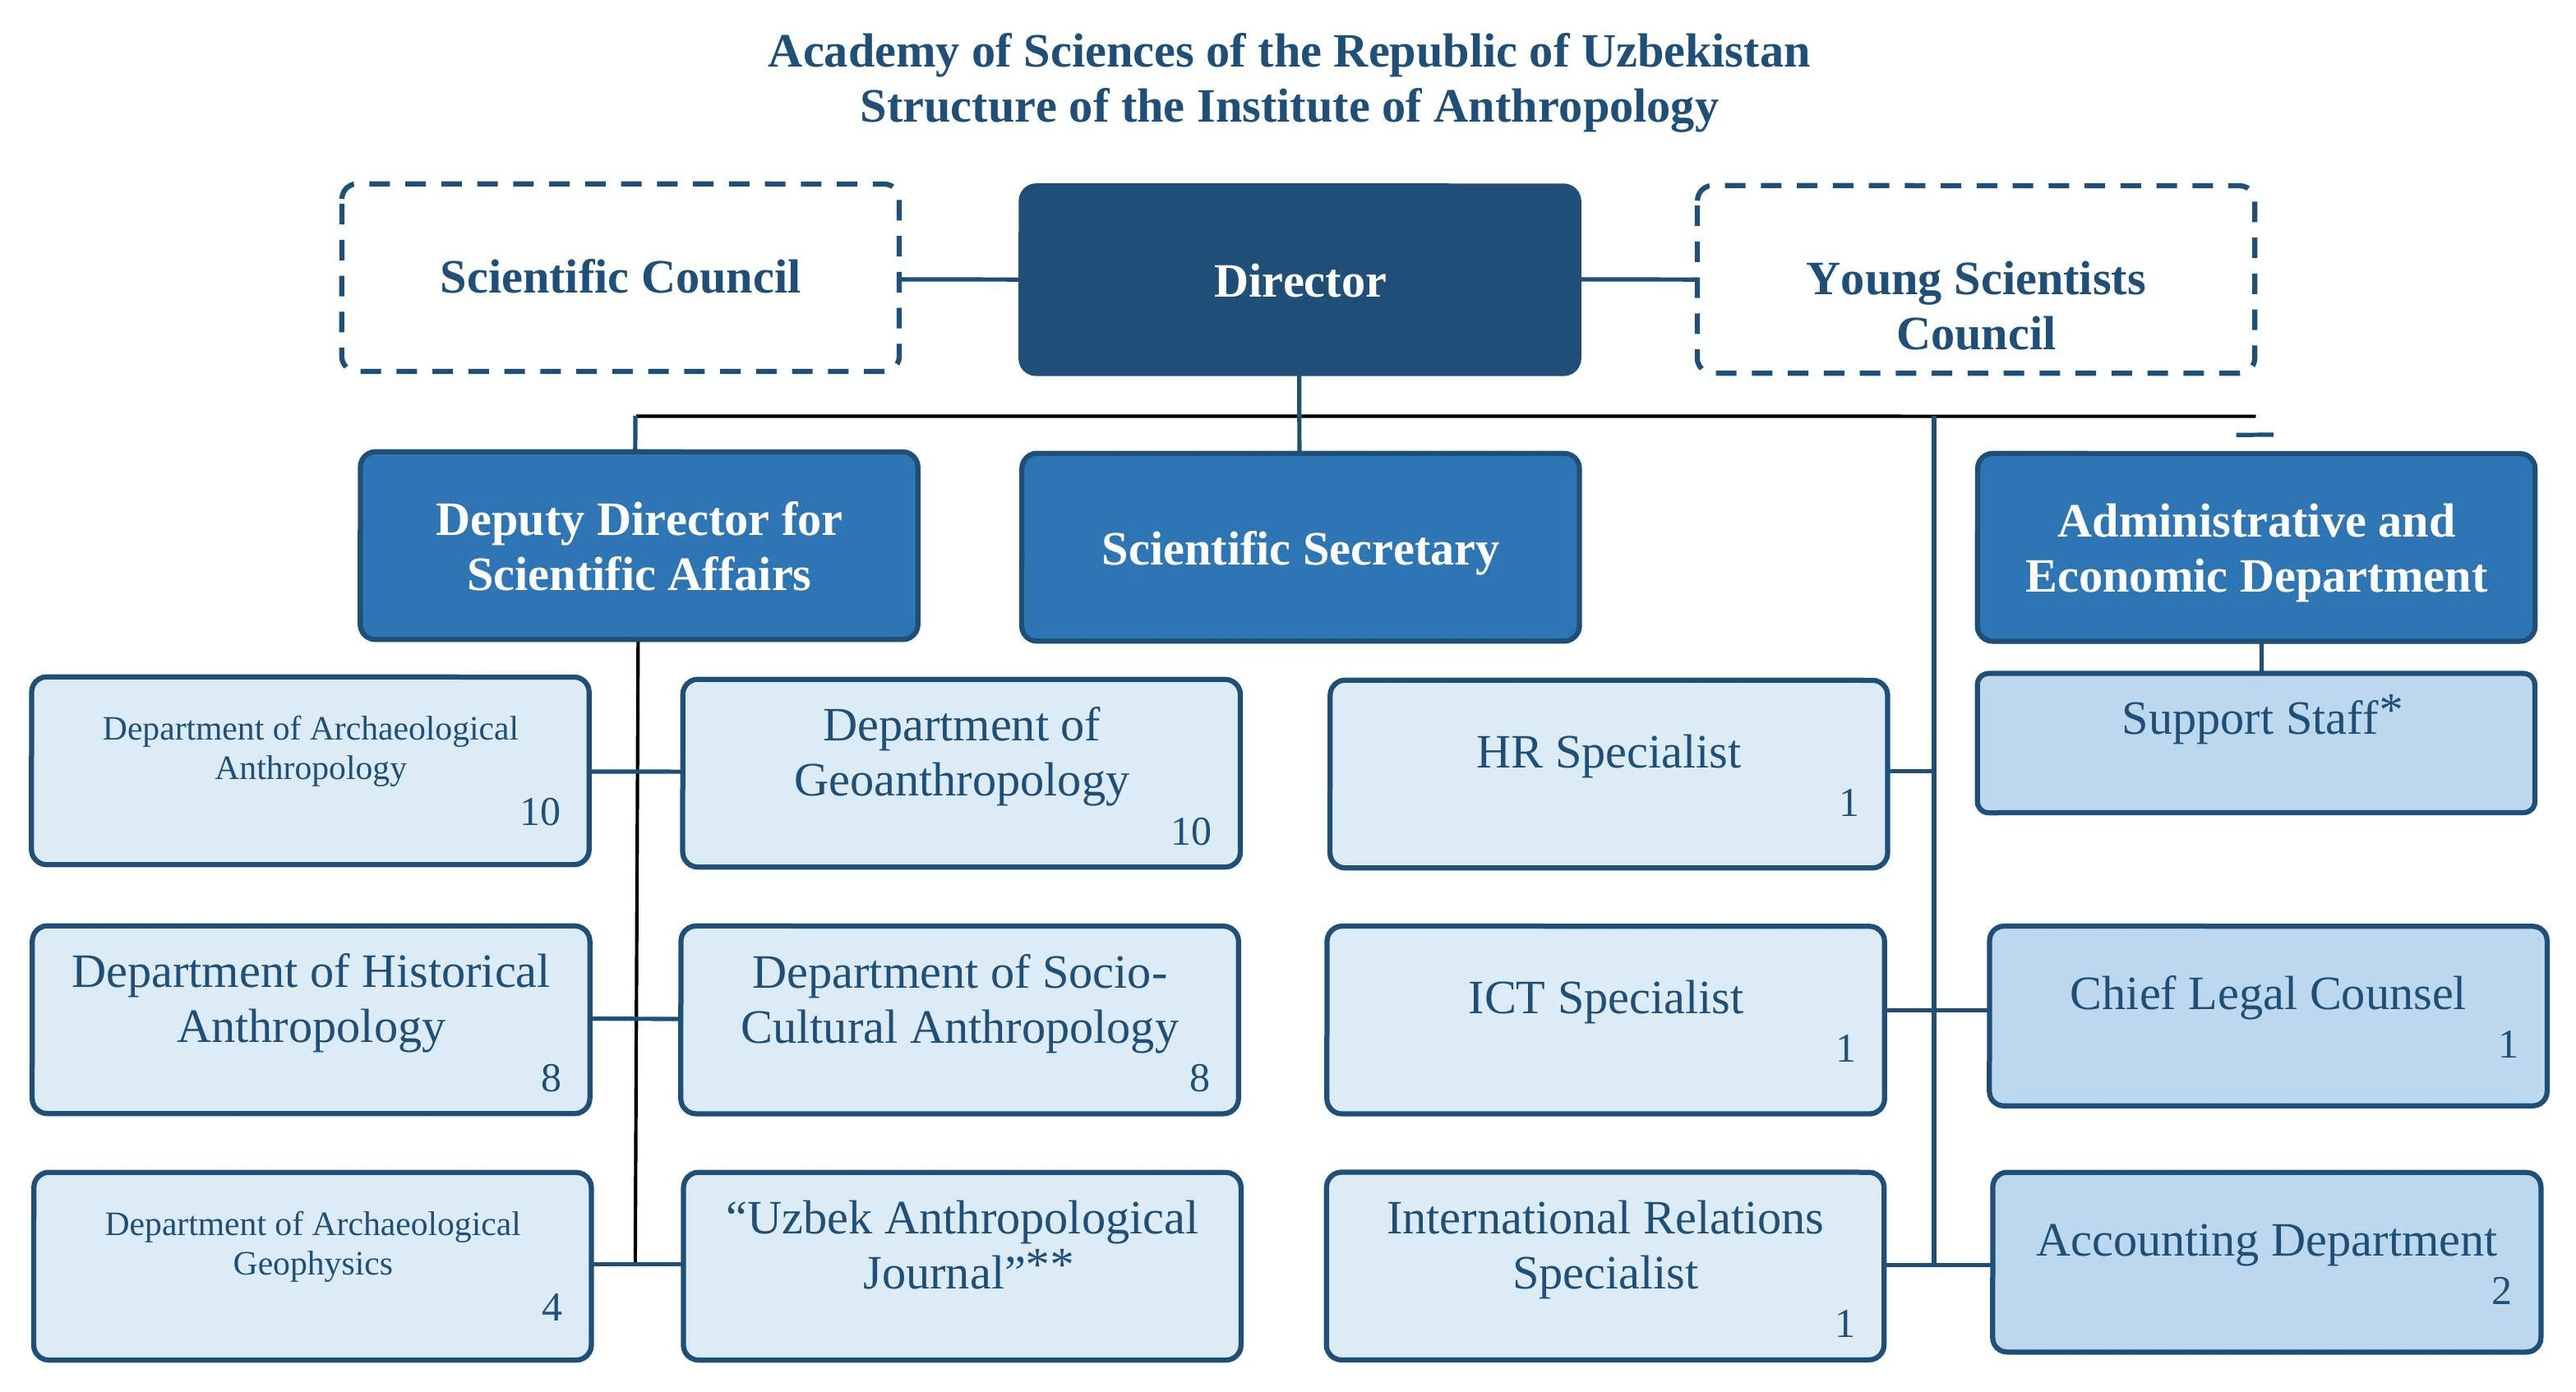
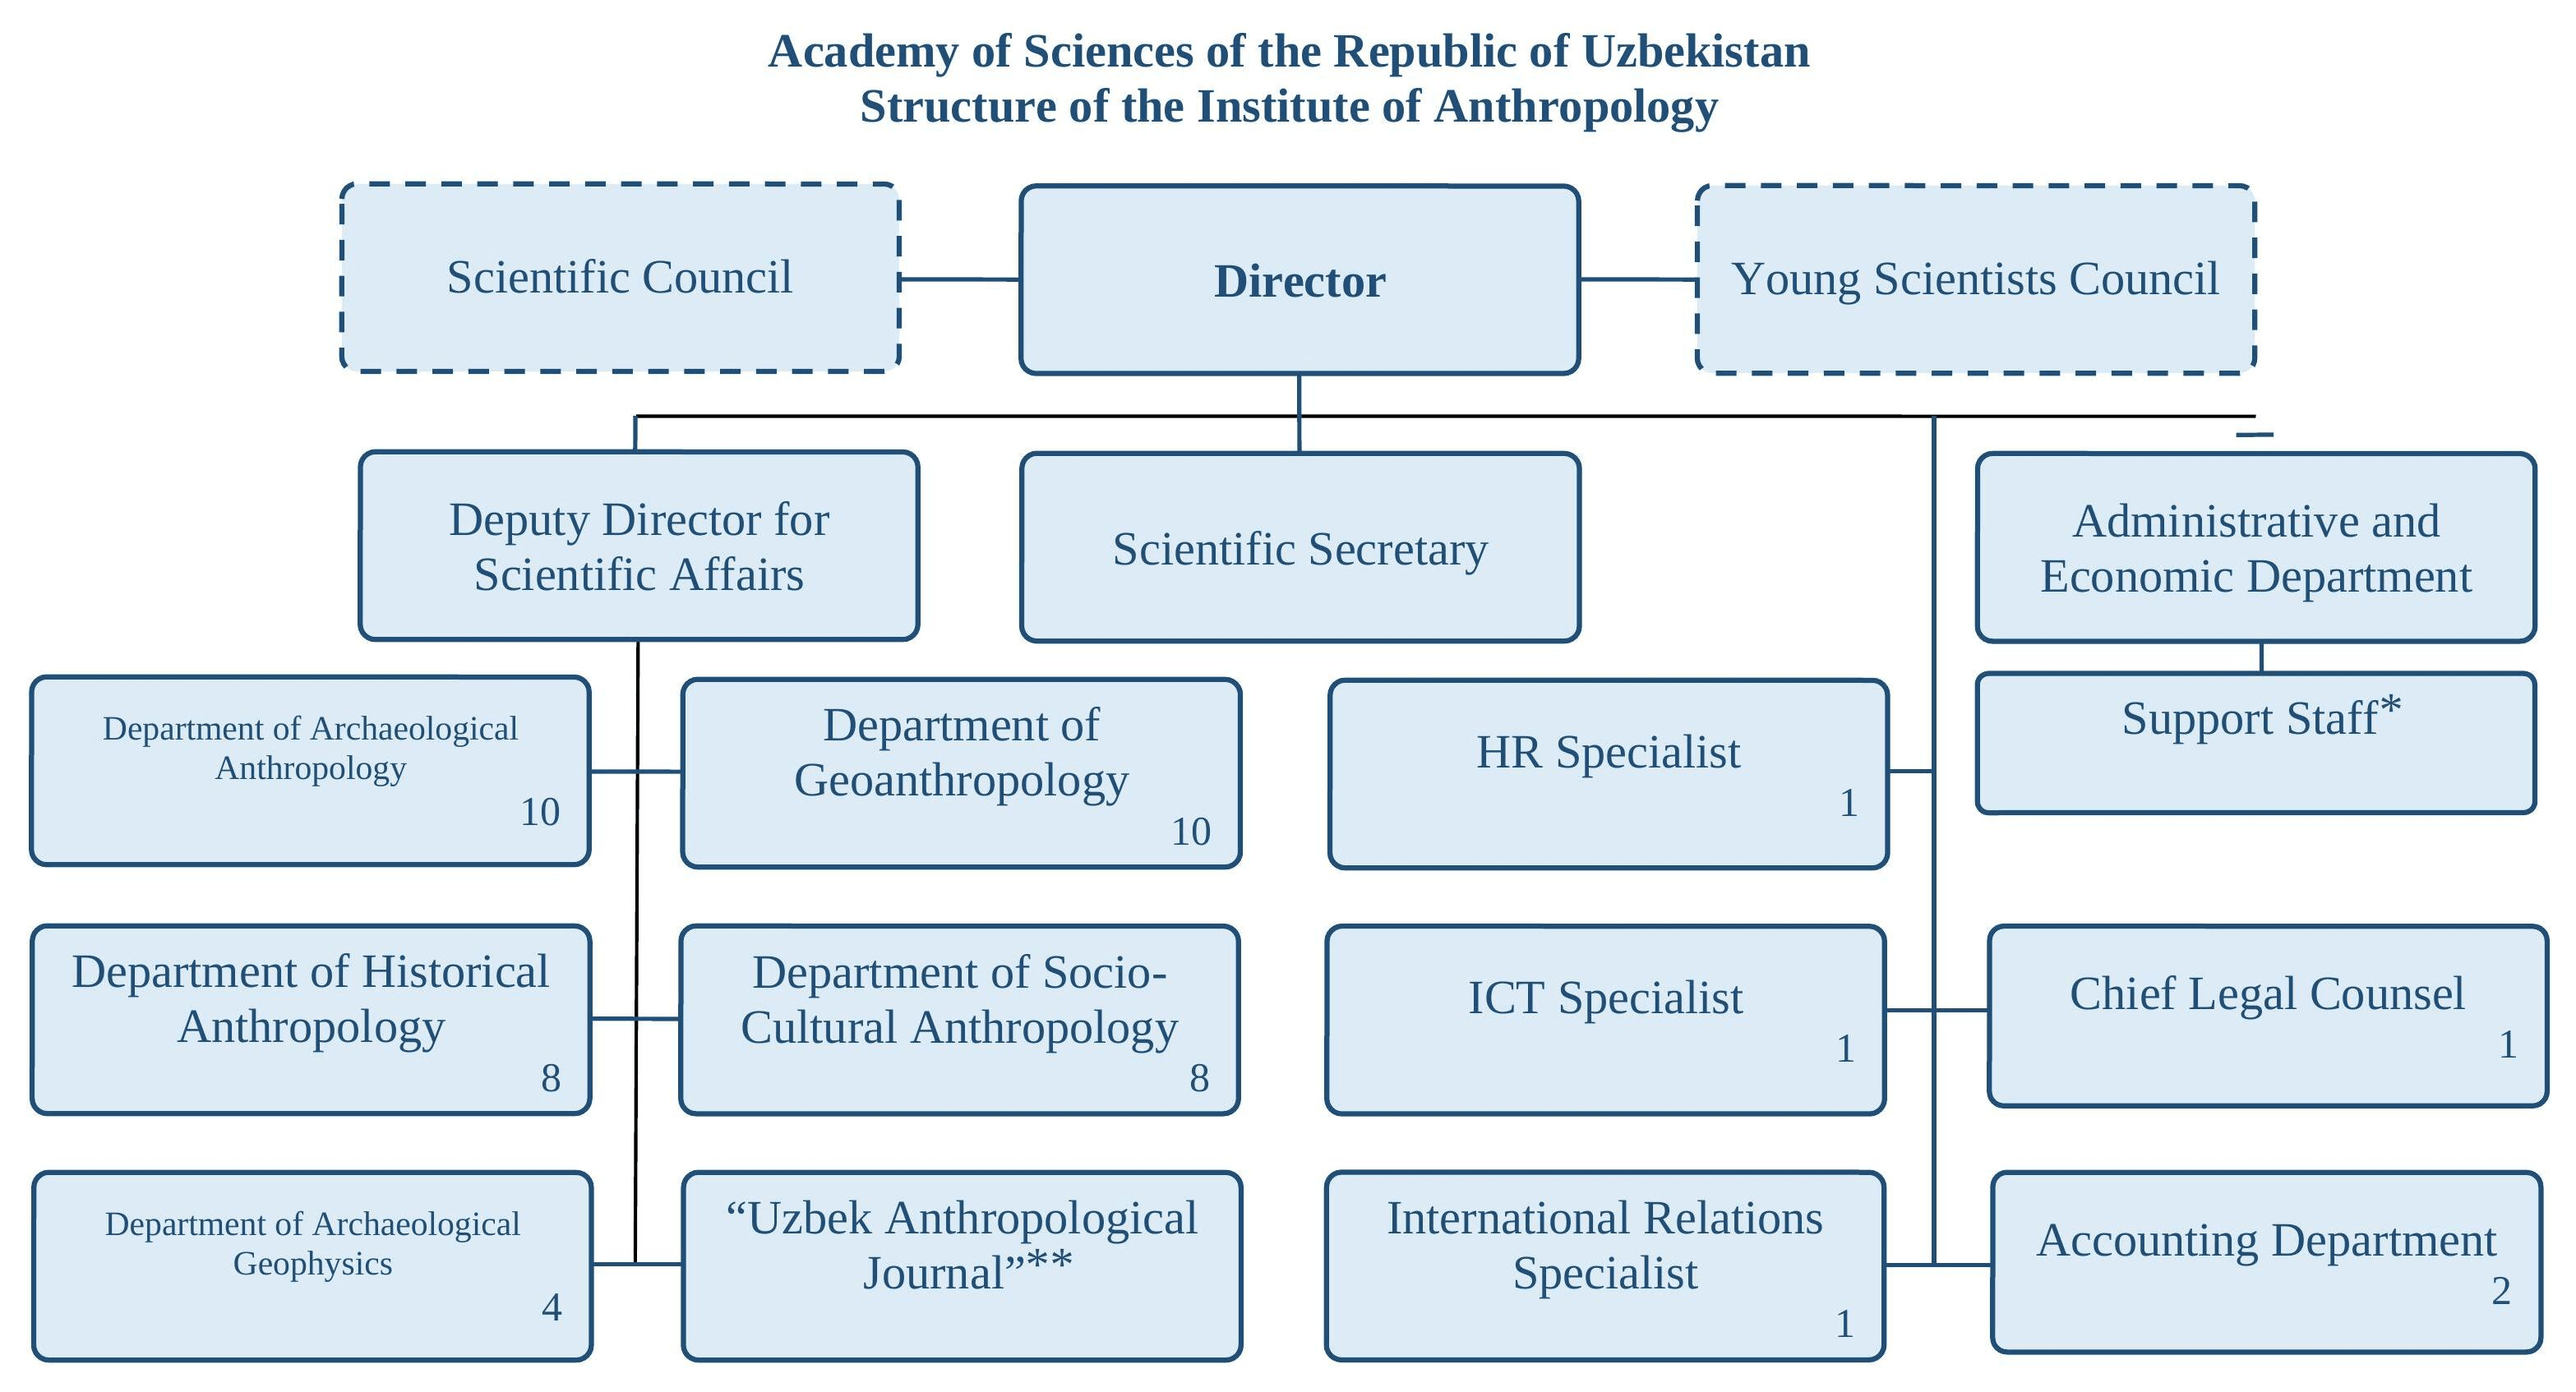
Remove Falsafa bo'limi pilot; real carousel photos; contacts/order fixes
- Falsafa bo'limi (philosophy-department) was a pilot/test department —
  removed from nav, routes, and the unused DepartmentDetailPage import.
  Its 30 staff + department content were also deleted from the backend
  (R2), separately. Generic DepartmentDetailPage/StaffDetailPage system
  stays in place for whichever real department uses it next.
- Bo'limlar: Geoantropologiya bo'limi now listed before Arxeologik
  antropologiya bo'limi (was reversed).
- Homepage carousel: replaced the 3 hotlinked placeholder images with
  real photos (river/canyon, desert, excavation), cropped for a more
  panoramic feel; reordered to desert first.
- Contacts (Bog'lanish): removed the Fax line.
- Structure (Tuzilma): updated org chart images (uz/en) with the newer
  version (includes per-department headcounts).

diff --git a/src/index.js b/src/index.js
@@ -90,7 +90,6 @@ import JournalIssueDetailPage from './pages/HomePages/journalIssueDetailPage/Jou
   import HistoricalAnthropologyDepartmentPage from './pages/HomePages/historicalAnthropologyDepartmentPage/HistoricalAnthropologyDepartmentPage';
   import SocioCulturalAnthropologyDepartmentPage from './pages/HomePages/socioCulturalAnthropologyDepartmentPage/SocioCulturalAnthropologyDepartmentPage';
   import ArchaeologicalGeophysicsDepartmentPage from './pages/HomePages/archaeologicalGeophysicsDepartmentPage/ArchaeologicalGeophysicsDepartmentPage';
-  import DepartmentDetailPage from './pages/HomePages/departmentDetailPage/DepartmentDetailPage';
   import StaffDetailPage from './pages/staffDetailPage/StaffDetailPage';
 
 
@@ -244,16 +243,15 @@ root.render(
 
                 {/* Departments Pages */}
 
-                <Route path='/:lang?/archaeological-anthropology-department' element={<ArchaeologicalAnthropologyDepartmentPage />} />
                 <Route path='/:lang?/geoanthropology-department' element={<GeoanthropologyDepartmentPage />} />
+                <Route path='/:lang?/archaeological-anthropology-department' element={<ArchaeologicalAnthropologyDepartmentPage />} />
                 <Route path='/:lang?/historical-anthropology-department' element={<HistoricalAnthropologyDepartmentPage />} />
                 <Route path='/:lang?/socio-cultural-anthropology-department' element={<SocioCulturalAnthropologyDepartmentPage />} />
                 <Route path='/:lang?/archaeological-geophysics-department' element={<ArchaeologicalGeophysicsDepartmentPage />} />
-                <Route path='/:lang?/philosophy-department' element={<DepartmentDetailPage deptSlug="philosophy-department" />} />
-                {/* Дженерик-маршрут вида /<deptSlug>/staff/<slug> — работает для
-                    любого отдела, использующего DepartmentDetailPage (сейчас
-                    только philosophy-department), без правки роутов при
-                    переводе следующих отделов на ту же систему. */}
+                {/* Falsafa bo'limi (philosophy-department) был пилотным/тестовым
+                    отделом — убран полностью (нав/роут/админка/данные на бэкенде).
+                    Дженерик-маршрут ниже остаётся: сработает для любого будущего
+                    отдела, переведённого на DepartmentDetailPage, без правки роутов. */}
                 <Route path='/:lang?/:deptSlug/staff/:slug' element={<StaffDetailPage />} />
 
 

diff --git a/src/pages/HomePages/homePage/items/carousel/Carousel.jsx b/src/pages/HomePages/homePage/items/carousel/Carousel.jsx
@@ -1,14 +1,13 @@
 import React, { useState, useEffect } from 'react';
-import './carousel.scss'; 
+import './carousel.scss';
+import riverCanyon from '@/public/images/HomePagesImages/carouselImages/river-canyon.jpg';
+import desert from '@/public/images/HomePagesImages/carouselImages/desert.jpg';
+import excavation from '@/public/images/HomePagesImages/carouselImages/excavation.jpg';
 
 export default function Carousel() {
   const [index, setIndex] = useState(0);
 
-  const images = [
-    'https://avatars.mds.yandex.net/i?id=8212bb4fa705a7d9fca740435c0979b2_l-4298842-images-thumbs&ref=rim&n=13&w=1996&h=1121',
-    'https://www.archaeolog.ru/media/2018/expedicii/baktriuskiu_otrayd/1.jpg',
-    'https://avatars.mds.yandex.net/i?id=2cca8c0e97e09c2b053380812bc1b949_l-5449883-images-thumbs&n=13',
-  ];
+  const images = [desert, riverCanyon, excavation];
 
   const goToSlide = (i) => {
     setIndex(i);

diff --git a/src/pages/contactsPage/items/section/Section.jsx b/src/pages/contactsPage/items/section/Section.jsx
@@ -182,16 +182,6 @@ export default function Section() {
                     <br />
                     +998 71 233-95-31
                 </p>
-                <p className="contacts-page__section____info__contact__fax">
-                    {
-                        language === "uz"
-                            ? "Faks :"
-                            : language === "ru"
-                            ? "Факс: "
-                            : "Fax: "
-                    }
-                    +998 71 262-64-62
-                </p>
                 <p className="contacts-page__section____info__contact__email">
                     E-mail: anthropology@academy.uz  
                 </p>
